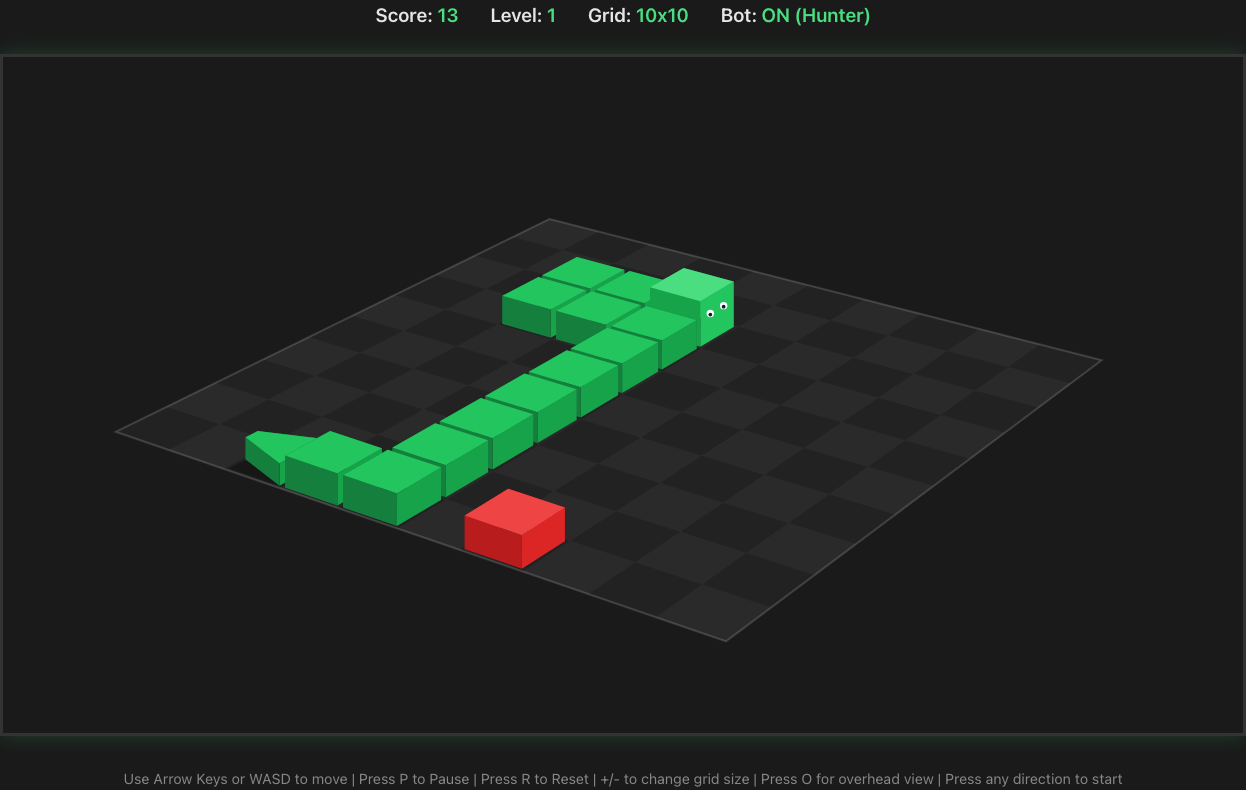
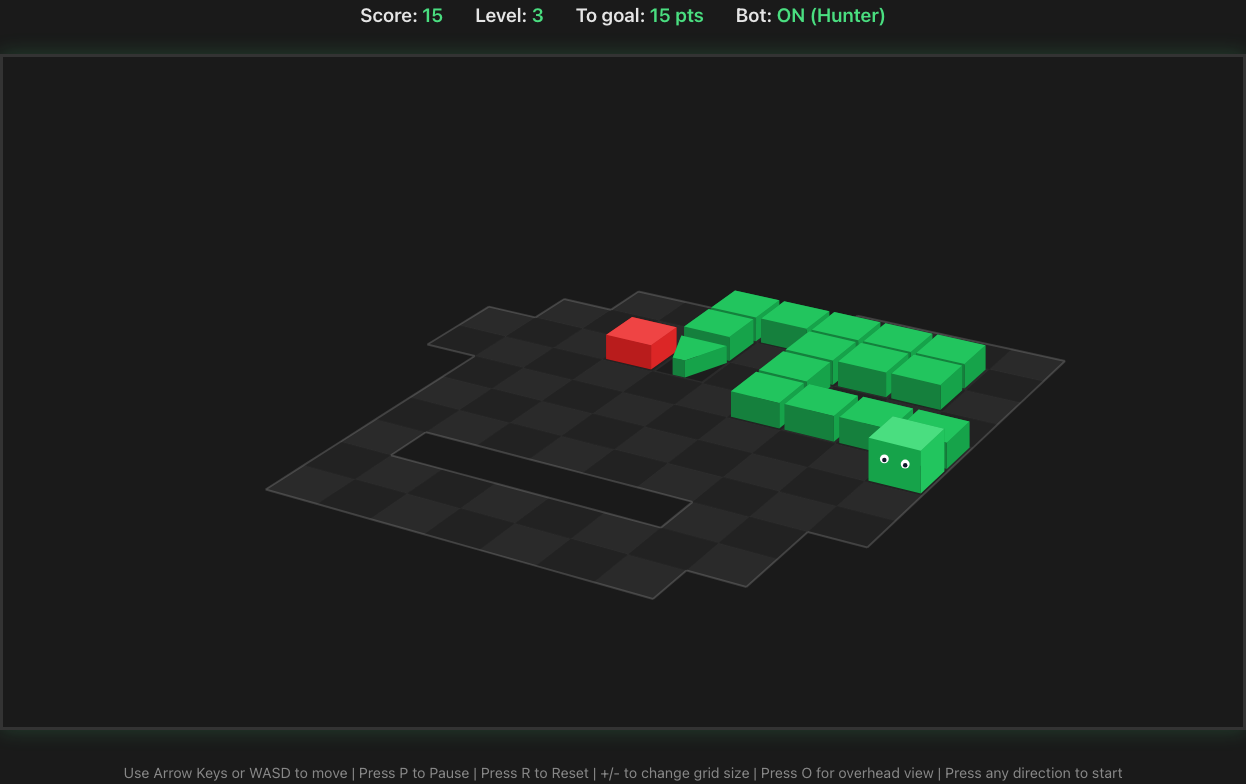
Use an Iron Snake board for the hero screenshot
Swap the hero image for an Iron Snake Mode capture: an irregular,
non-rectangular board with a visible interior hole, which better showcases
the mode. Regenerated from the running app via the Playwright harness.

diff --git a/README.md b/README.md
@@ -3,7 +3,7 @@
 A classic snake game reimagined with an isometric, rotating 3D board — built with TypeScript and HTML5 Canvas, bundled with Vite.
 
 <p align="center">
-  <img src="docs/screenshot.png" alt="Isometric 3D snake game — a green snake winding across a rotating checkerboard board with a red apple, score and level readout above" width="720">
+  <img src="docs/screenshot.png" alt="Iron Snake Mode — a green snake on an irregular, non-rectangular isometric board with an interior hole and a red apple, level and to-goal readout above" width="720">
 </p>
 
 ## Features